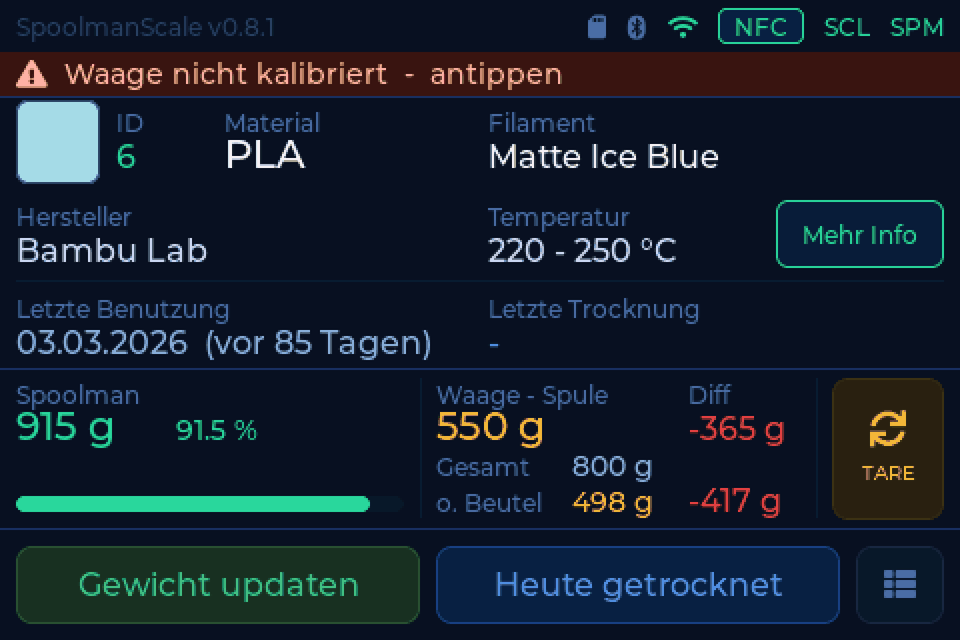
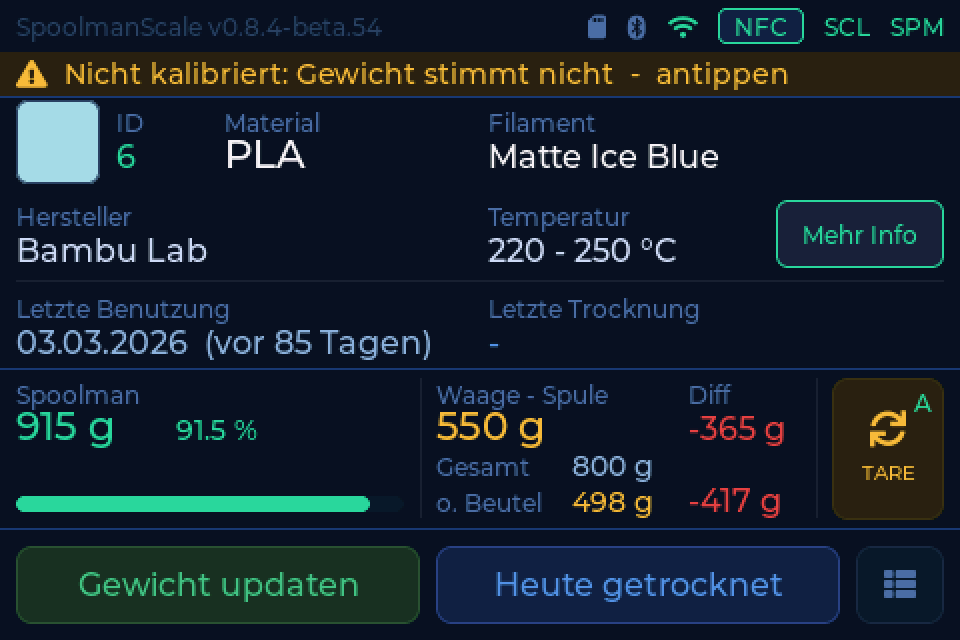
docs: an uncalibrated scale shows a rough weight and says it is wrong, the raw value stays named for firmware up to 0.8.3

diff --git a/docs/use/index.de.md b/docs/use/index.de.md
@@ -215,9 +215,12 @@ einmalig umgeschrieben.
 
 ## Schritt 4 - Kalibrieren
 
-Eine nie kalibrierte Waage zeigt den Rohwert des Wandlers, keine Gramm - eine
-sechsstellige Zahl, die von selbst um Hunderte springt. Bei einem frischen
-Aufbau ist das normal, und die Waage sagt es in der Statuszeile auch.
+Eine nie kalibrierte Waage rechnet mit einem groben Näherungswert. Bei einer
+2-kg-Zelle liegt das Gewicht damit ungefähr richtig, kann aber um ein Viertel
+danebenliegen; bei einer 1-kg- oder 5-kg-Zelle um mehr als das Doppelte. Die
+Statuszeile sagt deshalb **Nicht kalibriert: Gewicht stimmt nicht**, bis du
+kalibriert hast. Firmware bis 0.8.3 zeigt stattdessen den Rohwert des Wandlers,
+eine sechsstellige Zahl.
 
 Am Ende der Einrichtung fragt die Waage danach: **Jetzt kalibrieren** öffnet
 die Kalibrierung sofort, **Verstanden** verschiebt sie auf später.

diff --git a/docs/use/index.md b/docs/use/index.md
@@ -208,9 +208,11 @@ colons, are still found and get rewritten once on their first scan.
 
 ## Step 4 - Calibrate
 
-A scale that has never been calibrated shows the converter's raw value, not
-grams - a six digit number that drifts by hundreds on its own. That is expected
-on a new build, and the scale says so in the status bar.
+A scale that has never been calibrated works with a rough estimate. On a 2 kg
+cell the weight is about right but can be a quarter off; on a 1 kg or 5 kg cell
+it is off by more than double. That is why the status bar says **Not calibrated:
+weight is wrong** until you calibrate. Firmware up to 0.8.3 shows the
+converter's raw value instead, a six digit number.
 
 At the end of the setup the scale asks about it: **Calibrate now** opens the
 calibration straight away, **Got it!** leaves it for later.

diff --git a/docs/help/index.de.md b/docs/help/index.de.md
@@ -102,10 +102,13 @@ melden, ohne dass er arbeiten kann.
 
 ## Waage nicht kalibriert
 
-> **Waage nicht kalibriert**
+> **Nicht kalibriert: Gewicht stimmt nicht**
 
-Der angezeigte Wert ist der Rohwert des ADC, nicht Gramm. Deshalb steht dort
-eine sechsstellige Zahl, die von selbst um Hunderte springt.
+Die Waage rechnet noch mit einem groben Näherungswert. Das angezeigte Gewicht
+kann weit danebenliegen, also besser noch nicht im Inventar speichern.
+
+Firmware bis 0.8.3 heißt hier **Waage nicht kalibriert** und zeigt den Rohwert
+des ADC statt Gramm: eine sechsstellige Zahl, die von selbst um Hunderte springt.
 
 Das ist **kein Defekt und kein Verkabelungsfehler**. Die Waage weiß nur noch
 nicht, wie viele Messschritte ein Gramm sind.

diff --git a/docs/use/weighing.de.md b/docs/use/weighing.de.md
@@ -6,9 +6,12 @@
 
 ## Kalibrierung
 
-Eine nie kalibrierte Waage zeigt den Rohwert des Wandlers, keine Gramm - eine
-sechsstellige Zahl, die von selbst um Hunderte springt. Das ist kein Defekt, und
-die Waage sagt es in der Statuszeile auch.
+Eine nie kalibrierte Waage rechnet mit einem groben Näherungswert. Bei einer
+2-kg-Zelle liegt das Gewicht damit ungefähr richtig, kann aber um ein Viertel
+danebenliegen; bei einer 1-kg- oder 5-kg-Zelle um mehr als das Doppelte. Die
+Statuszeile sagt deshalb **Nicht kalibriert: Gewicht stimmt nicht**, bis du
+kalibriert hast. Firmware bis 0.8.3 zeigt stattdessen den Rohwert des Wandlers,
+eine sechsstellige Zahl.
 
 **Einstellungen → Spulen & Waage → Kalibrierung**
 

diff --git a/docs/help/index.md b/docs/help/index.md
@@ -99,10 +99,13 @@ on the bus without being able to work.
 
 ## Scale not calibrated
 
-> **Scale not calibrated**
+> **Not calibrated: weight is wrong**
 
-The value on screen is the raw ADC reading, not grams. That is why it is a six
-digit number that jumps by hundreds on its own.
+The scale still works with a rough estimate. The weight on screen can be far
+off, so better not save it to your inventory yet.
+
+Firmware up to 0.8.3 calls this **Scale not calibrated** and shows the raw ADC
+reading instead of grams: a six digit number that jumps by hundreds on its own.
 
 This is **neither a defect nor a wiring mistake**. The scale simply does not
 know yet how many counts make a gram.

diff --git a/docs/use/weighing.md b/docs/use/weighing.md
@@ -6,9 +6,11 @@
 
 ## Calibration
 
-A scale that has never been calibrated shows the converter's raw value, not
-grams - a six digit number that drifts by hundreds on its own. That is not a
-fault, and the scale says so in the status bar.
+A scale that has never been calibrated works with a rough estimate. On a 2 kg
+cell the weight is about right but can be a quarter off; on a 1 kg or 5 kg cell
+it is off by more than double. That is why the status bar says **Not calibrated:
+weight is wrong** until you calibrate. Firmware up to 0.8.3 shows the
+converter's raw value instead, a six digit number.
 
 **Settings → Spools & scale → Calibration**
 

diff --git a/docs/help/faq.de.md b/docs/help/faq.de.md
@@ -219,7 +219,8 @@ wird geleert und die aufliegende Spule beim neuen Backend neu abgefragt.
 ### Warum stehen da sechs Ziffern statt Gramm?
 
 Die Waage ist nie kalibriert worden und zeigt deshalb den Rohwert des Wandlers.
-Bei einem frischen Aufbau ist das normal. Siehe
+Das gilt bis Firmware 0.8.3; neuere Versionen zeigen ein grobes Gewicht und den
+Hinweis, dass es nicht stimmt. Bei einem frischen Aufbau ist beides normal. Siehe
 [Waage nicht kalibriert](index.md#waage-nicht-kalibriert).
 
 ---

diff --git a/docs/help/faq.md b/docs/help/faq.md
@@ -212,7 +212,8 @@ the spool on the pad is looked up again at the new backend.
 ### Why does it say six digits instead of grams?
 
 The scale has never been calibrated, so it is showing the converter's raw value.
-That is normal on a new build. See
+That holds up to firmware 0.8.3; newer versions show a rough weight and say that
+it is wrong. Either is normal on a new build. See
 [Scale not calibrated](index.md#scale-not-calibrated).
 
 ---
